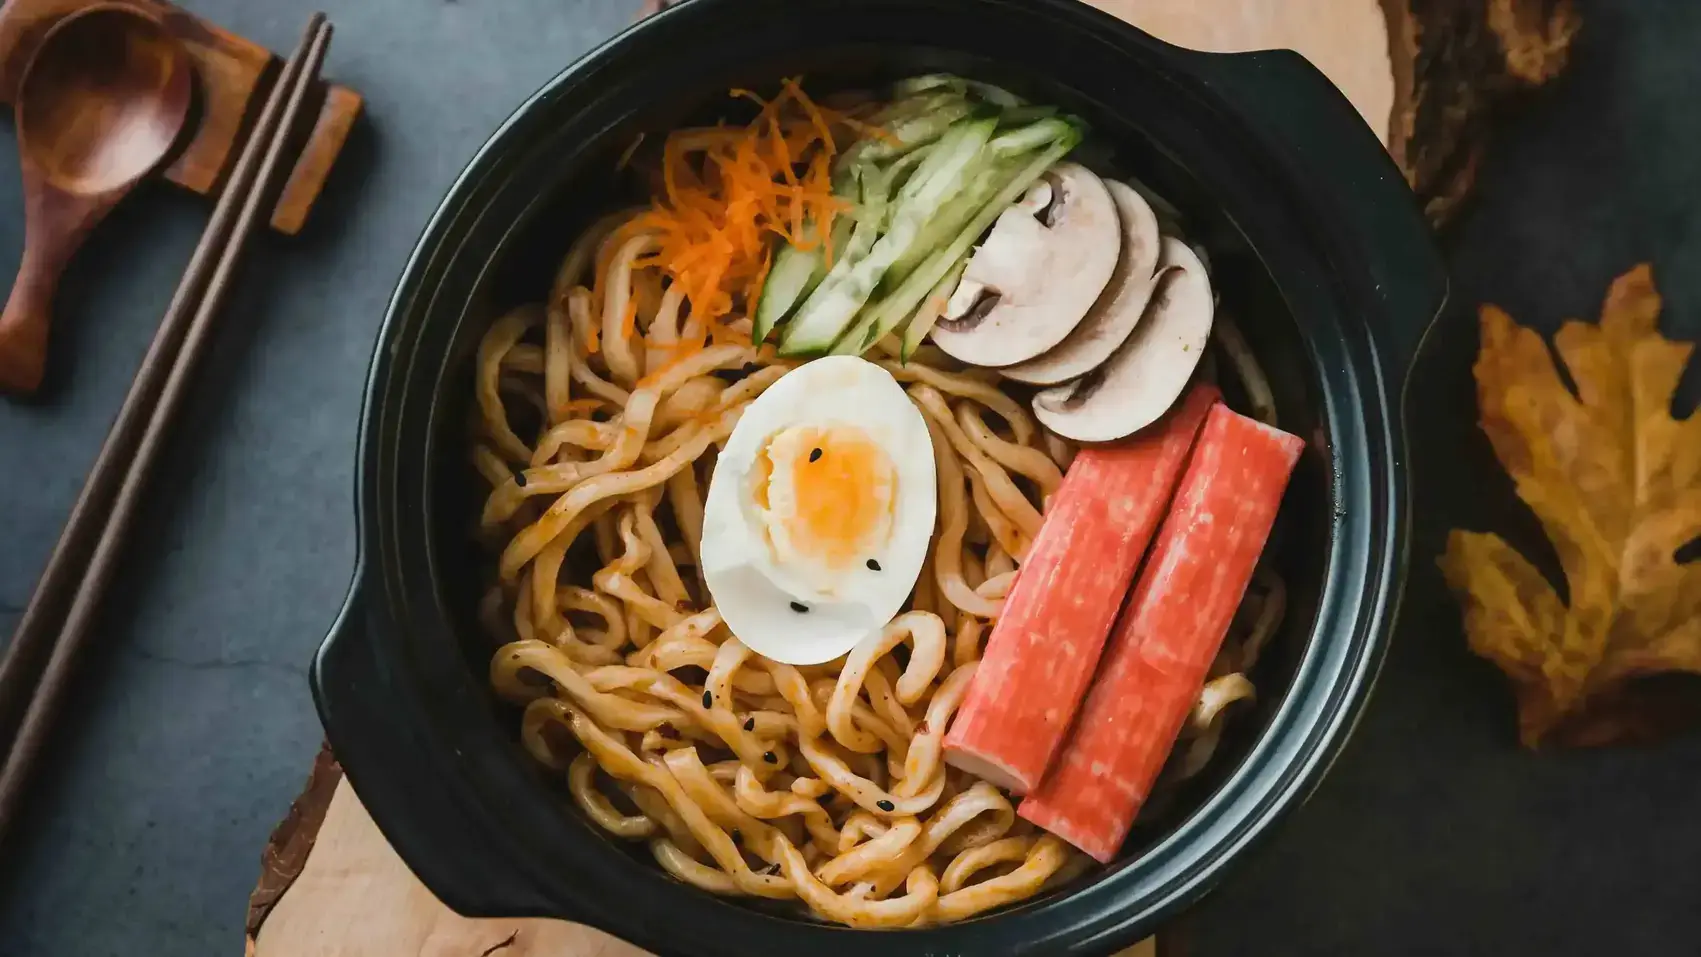
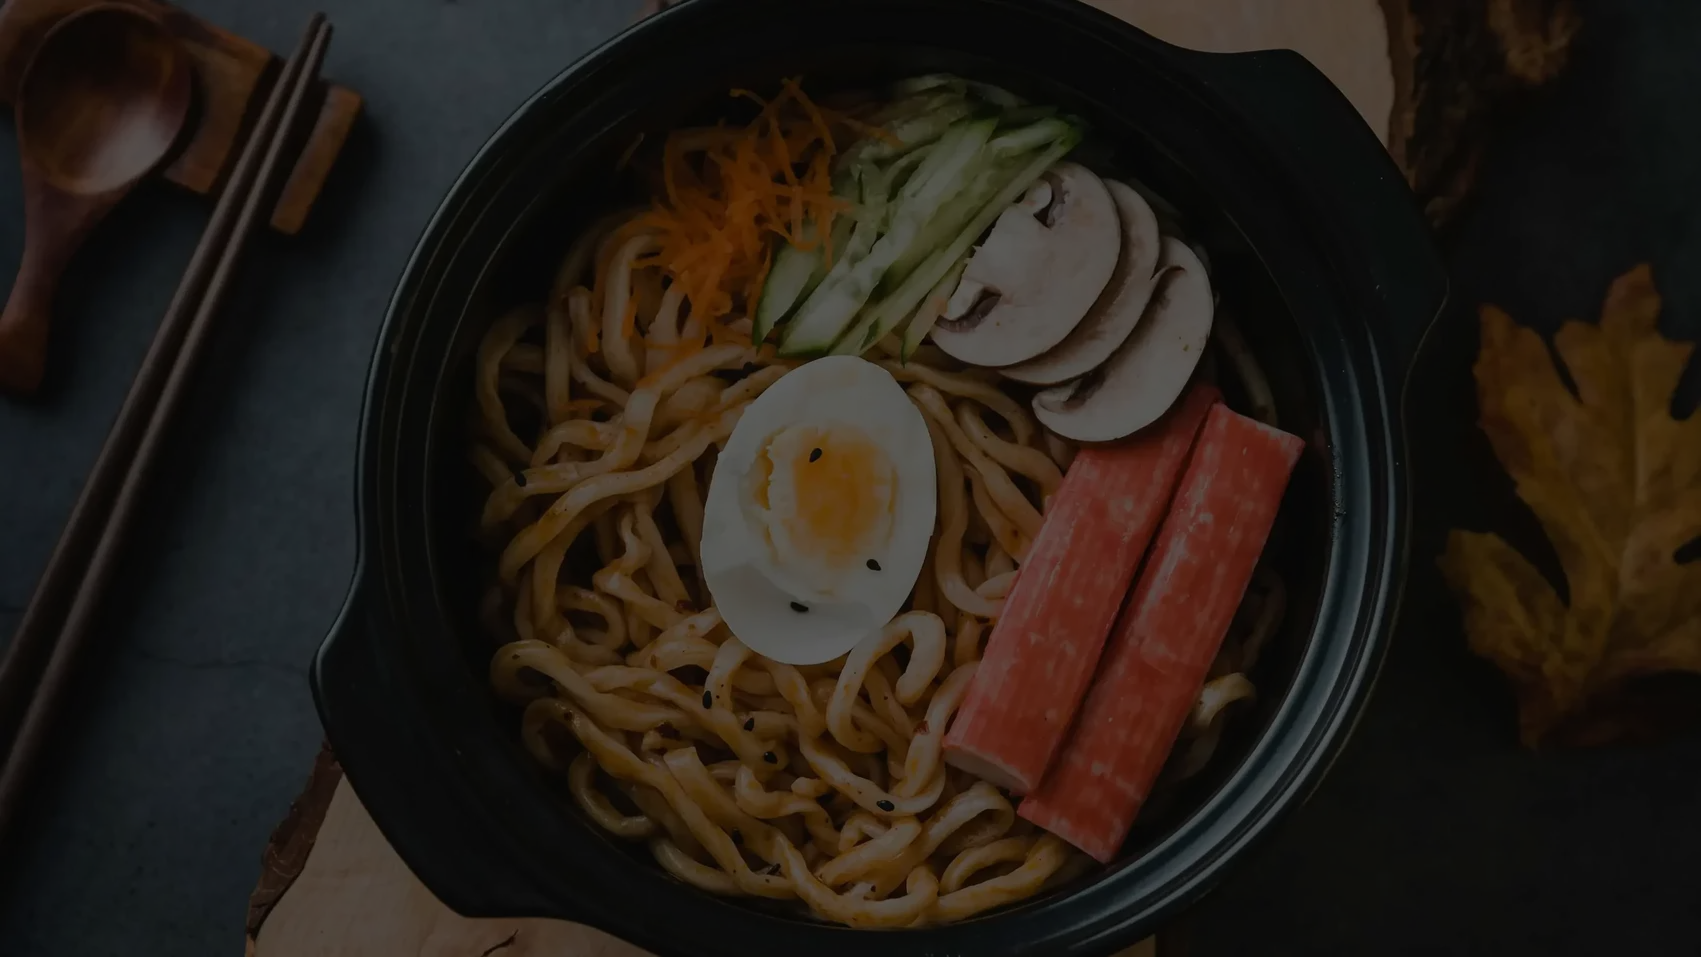
loader and about

diff --git a/src/components/AboutTeam.jsx b/src/components/AboutTeam.jsx
@@ -2,54 +2,48 @@ import Inga from "../Layout/imgs/Inga.png";
 import Agnieszka from "../Layout/imgs/Agnieszka.png";
 import Żaklina from "../Layout/imgs/Żaklina.png";
 
-export default function AboutTeam () {
-    return (
-        <div className="mt-10 grid gap-8 md:grid-cols-2 lg:grid-cols-3">
-            <div className="flex flex-col items-center text-center">
-              <img
-                src={Agnieszka}
-                alt="Agnieszka"
-                className="h-50 w-50 transform rounded-full object-cover transition duration-300 hover:scale-110"
-              />
-              <h2 className="text-menu-red mt-4 text-xl font-semibold">
-                Agnieszka
-              </h2>
-              <p className="mt-5 text-gray-700 md:text-justify">
-                Mistrz smaku i aromatu. Dba o perfekcyjnie ugotowane buliony,
-                sprężysty makaron i idealnie dobrane dodatki. Dzięki niej każda
-                miska ramenu to dzieło sztuki!
-              </p>
-            </div>
-            <div className="flex flex-col items-center text-center">
-              <img
-                src={Inga}
-                alt="Inga"
-                className="h-50 w-50 transform rounded-full object-cover transition duration-300 hover:scale-110"
-              />
-              <h2 className="text-menu-red mt-4 text-xl font-semibold">Inga</h2>
-              <p className="mt-5 text-gray-700 md:text-justify">
-                Osoba odpowiedzialna za atmosferę, design i doświadczenie.
-                Tworzy naszą historię, dba o wystrój i sprawia, że ramenownia to
-                nie tylko miejsce na jedzenie, ale i prawdziwa przygoda!
-              </p>
-            </div>
-            <div className="flex flex-col items-center text-center md:col-span-2 lg:col-span-1">
-              <img
-                src={Żaklina}
-                alt="Żaklina"
-                className="h-50 w-50 transform rounded-full object-cover transition duration-300 hover:scale-110"
-              />
-              <h2 className="text-menu-red mt-4 text-xl font-semibold">
-                Żaklina
-              </h2>
-              <p className="mt-5 text-gray-700 md:text-justify">
-                Serce naszej ramenowni. Dba o każdy szczegół, od najwyższej
-                jakości składników po niezapomnianą obsługę gości. Sprawia, że
-                każdy czuje się jak w domu.
-              </p>
-            </div>
-          </div>
-      );
+export default function AboutTeam() {
+  return (
+    <div className="mt-10 grid gap-8 md:grid-cols-2 lg:grid-cols-3">
+      <div className="flex flex-col items-center text-center">
+        <img
+          src={Agnieszka}
+          alt="Agnieszka"
+          className="h-50 w-50 transform rounded-full object-cover transition duration-300 hover:scale-110"
+        />
+        <h2 className="text-menu-red mt-4 text-xl font-semibold">Agnieszka</h2>
+        <p className="mt-5 text-gray-700 md:text-justify">
+          Mistrz smaku i aromatu. Dba o perfekcyjnie ugotowane buliony,
+          sprężysty makaron i idealnie dobrane dodatki. Dzięki niej każda miska
+          ramenu to dzieło sztuki!
+        </p>
+      </div>
+      <div className="flex flex-col items-center text-center">
+        <img
+          src={Inga}
+          alt="Inga"
+          className="h-50 w-50 transform rounded-full object-cover transition duration-300 hover:scale-110"
+        />
+        <h2 className="text-menu-red mt-4 text-xl font-semibold">Inga</h2>
+        <p className="mt-5 text-gray-700 md:text-justify">
+          Osoba odpowiedzialna za atmosferę, design i doświadczenie. Tworzy
+          naszą historię, dba o wystrój i sprawia, że ramenownia to nie tylko
+          miejsce na jedzenie, ale i prawdziwa przygoda!
+        </p>
+      </div>
+      <div className="flex flex-col items-center text-center md:col-span-2 lg:col-span-1">
+        <img
+          src={Żaklina}
+          alt="Żaklina"
+          className="h-50 w-50 transform rounded-full object-cover transition duration-300 hover:scale-110"
+        />
+        <h2 className="text-menu-red mt-4 text-xl font-semibold">Żaklina</h2>
+        <p className="mt-5 max-w-[500px] text-gray-700 md:text-justify">
+          Serce naszej ramenowni. Dba o każdy szczegół, od najwyższej jakości
+          składników po niezapomnianą obsługę gości. Sprawia, że każdy czuje się
+          jak w domu.
+        </p>
+      </div>
+    </div>
+  );
 }
-
- 

diff --git a/src/routes/About.jsx b/src/routes/About.jsx
@@ -2,32 +2,18 @@ import BlurText from "../utils/animations/BlurText";
 import Image from "../Layout/imgs/about.webp";
 import ScrollToTopButton from "../components/ScrollToTopButton";
 import AboutTeam from "../components/AboutTeam";
-import { useEffect, useState } from "react";
+import ImageWithLoader from "../components/ImageWithLoader";
 
 export default function About() {
-  const [isLoading, setIsLoading] = useState(false);
-  useEffect(() => {
-    setIsLoading(true);
-    setTimeout(() => {
-      setIsLoading(false);
-    }, 100);
-  }, []);
   return (
     <main>
       <div className="relative w-full lg:h-[70vh]">
-        {isLoading && (
-          <div className="absolute inset-0 flex items-center justify-center bg-current">
-            <p className="text-gray-600">Ładowanie...</p>
-          </div>
-        )}
-        <img
+        <ImageWithLoader
           src={Image}
-          loading="eager"
-          className={`h-[30vh] w-full object-cover transition-opacity duration-500 lg:h-[70vh] lg:object-[0%_55%] ${isLoading ? "opacity-0" : "opacity-100"}`}
-          onLoad={() => setIsLoading(false)}
           alt="Miska ramenu"
+          className="h-[30vh] w-full object-cover transition-opacity duration-300 lg:h-[70vh] lg:object-[0%_55%]"
         />
-        <div className="bg-photo-layer absolute inset-0 flex items-center justify-center">
+        <div className="absolute inset-0 flex items-center justify-center">
           <BlurText
             text="Poznaj nas bliżej!"
             delay={150}
@@ -38,7 +24,7 @@ export default function About() {
         </div>
       </div>
 
-      <div className="my-4 mx-auto w-full max-w-[95%] rounded-2xl bg-[#F6EFEF] p-6 py-12 shadow-lg md:max-w-[90%] xl:max-w-[85%]">
+      <div className="mx-auto my-4 w-full max-w-[95%] rounded-2xl bg-[#F6EFEF] p-6 py-12 shadow-lg md:max-w-[90%] xl:max-w-[85%]">
         <section>
           <h1 className="text-menu-red mb-10 text-center text-3xl font-bold md:text-4xl">
             Nasza misja

diff --git a/src/components/ImageWithLoader.jsx b/src/components/ImageWithLoader.jsx
@@ -1,0 +1,27 @@
+/* eslint-disable react/prop-types */
+import { useState } from "react";
+import Logo from "../Layout/imgs/favicon.svg";
+const ImageWithLoader = ({ src, alt, className }) => {
+  const [loaded, setLoaded] = useState(false);
+
+  return (
+    <div>
+      {!loaded && (
+        <p className="absolute inset-0 flex items-center justify-center">
+          <img src={Logo} alt="Logo" className="w-50 h-50 animate-spin" />
+        </p>
+      )}
+      <img
+        src={src}
+        alt={alt}
+        onLoad={() => setLoaded(true)}
+        onError={() => console.error("Błąd ładowania obrazka")}
+        style={{ display: loaded ? "block" : "none" }}
+        className={className}
+      />
+    </div>
+    
+  );
+};
+
+export default ImageWithLoader;

diff --git a/src/index.css b/src/index.css
@@ -12,8 +12,9 @@
   --color-dark-primary: #3c5b6f;
   --color-dark-secondary: hsla(219, 11%, 74%, 0.8);
   --color-dark-tertiary: #153448;
-  --color-photo-layer: hsla(0, 0%, 0%, .6);
+  --color-photo-layer: hsla(0, 0%, 0%, 0.6);
   --animate-fade-in: fade-in 0.5s ease-in-out forwards;
+
   @keyframes fade-in {
     0% {
       opacity: 0;
